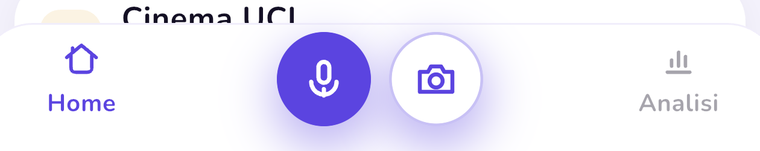
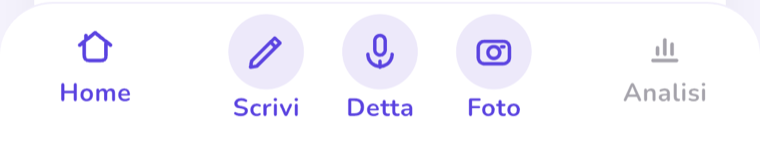
App Store al posto della beta, screenshot della 1.1.1, niente trattini lunghi
- «Prova la beta» e «Chiedi l'invito» diventano «Scarica su App Store»;
  la sezione beta dell'assistenza diventa «Scaricare e aggiornare»,
  con le istruzioni per segnalare un problema da «Scrivi all'assistenza».
- Sei screenshot rifatti dalla 1.1.1 (barra con Scrivi · Detta · Foto,
  icone delle categorie, credito, risparmi, ricorrenti, dettatura);
  il mock della home mostra icone e profilo come nell'app.
- Via il trattino lungo da tutte le pagine; «cosa e quanto» al posto
  di «dove e quanto»; il microfono si accende da «Detta».

diff --git a/index.html b/index.html
@@ -11,7 +11,7 @@
 /* Baloo 2 e Nunito serviti dal nostro dominio: nessuna richiesta a Google,
    quindi nessun indirizzo IP dei visitatori verso terzi e nessun banner da
    mettere. Sono gli stessi file variabili impacchettati nell'app
-   (assets/fonts/), licenza SIL OFL 1.1 — copia in fonts/. */
+   (assets/fonts/), licenza SIL OFL 1.1, copia in fonts/. */
 @font-face {
   font-family: 'Baloo 2';
   src: url('fonts/Baloo2-latin.woff2') format('woff2');
@@ -28,7 +28,7 @@
 }
 /* FONTS-LOCAL-END */
 /* ─────────────────────────────────────────────────────────────
-   Token dell'app (lib/design/tokens.dart) — unica fonte di verità
+   Token dell'app (lib/design/tokens.dart): unica fonte di verità
    per i colori. Il mock del telefono resta chiaro in entrambi i
    temi: è una schermata dell'app, non un elemento di pagina.
    ───────────────────────────────────────────────────────────── */
@@ -285,11 +285,11 @@ footer ul { display: flex; gap: 22px; flex-wrap: wrap; }
     <div>
       <span class="pill">Spese di casa</span>
       <h1>Una spesa si annota<br>in due secondi.</h1>
-      <p class="lede">Lo dici a voce — «Coop venti euro» — o fotografi lo scontrino. Nuvo propone importo, categoria e data; tu confermi con un tocco. Nessun modulo da compilare.</p>
+      <p class="lede">Lo dici a voce («Coop venti euro»), lo scrivi o fotografi lo scontrino. Nuvo propone importo, categoria e data; tu confermi con un tocco. Nessun modulo da compilare.</p>
       <div class="cta-row">
-        <a class="btn btn-primary" href="#beta">
-          <svg width="19" height="19" viewBox="0 0 24 24" fill="none" stroke="currentColor" stroke-width="2.1" stroke-linecap="round" stroke-linejoin="round" aria-hidden="true"><path d="M12 4v11"></path><path d="M7.5 11l4.5 4.5L16.5 11"></path><path d="M5 19.5h14"></path></svg>
-          Prova la beta
+        <a class="btn btn-primary" href="https://apps.apple.com/it/app/id6805154051" rel="noopener">
+          <svg width="19" height="19" viewBox="0 0 24 24" aria-hidden="true" fill="currentColor"><path d="M16.4 12.7c0-2.5 2-3.7 2.1-3.8-1.2-1.7-3-1.9-3.6-2-1.5-.2-3 .9-3.8.9-.8 0-2-.9-3.3-.8-1.7 0-3.3 1-4.1 2.5-1.8 3.1-.5 7.6 1.3 10.1.9 1.2 1.9 2.6 3.2 2.5 1.3-.1 1.8-.8 3.3-.8s2 .8 3.3.8c1.4 0 2.3-1.2 3.1-2.5 1-1.4 1.4-2.8 1.4-2.9 0 0-2.8-1.1-2.9-4zM14 5.3c.7-.8 1.2-2 1-3.1-1 0-2.2.7-2.9 1.5-.6.7-1.2 1.9-1 3 1.1.1 2.2-.6 2.9-1.4z"/></svg>
+          Scarica su App Store
         </a>
         <a class="btn btn-ghost" href="#domande">Come funziona</a>
       </div>
@@ -305,10 +305,10 @@ footer ul { display: flex; gap: 22px; flex-wrap: wrap; }
       <div class="phone" role="img" aria-label="La schermata principale di Nuvo: credito del mese 680 euro su 1.200, budget Spesa e Casa, e le ultime due spese registrate.">
         <div class="phone-top">
           <div>
-            <div style="font:600 11.5px Nunito,sans-serif;color:var(--p-ink-50)">Buonasera, Marco</div>
-            <div style="font:800 22px 'Baloo 2',Nunito,sans-serif">Agosto</div>
+            <div style="font:600 11.5px Nunito,sans-serif;color:var(--p-ink-50)">Buonasera, Marta</div>
+            <div style="font:800 22px 'Baloo 2',Nunito,sans-serif">Ottobre</div>
           </div>
-          <div class="phone-avatar">M</div>
+          <div class="phone-avatar"><svg width="16" height="16" viewBox="0 0 24 24" aria-hidden="true" fill="none" stroke="currentColor" stroke-width="2" stroke-linecap="round"><circle cx="12" cy="8.3" r="3.9"/><path d="M4.8 20.5q0-5.9 7.2-5.9t7.2 5.9"/></svg></div>
         </div>
         <div class="phone-card ring-row">
           <div class="ring">
@@ -340,13 +340,13 @@ footer ul { display: flex; gap: 22px; flex-wrap: wrap; }
         </div>
         <div class="budget-row">
           <div class="budget-card">
-            <div class="chip" style="background:#E4F1E7;color:#1E6B47">SP</div>
+            <div class="chip" style="background:#E4F1E7;color:#1E6B47"><svg width="15" height="15" viewBox="0 0 24 24" aria-hidden="true" fill="currentColor"><path d="M7 18a2 2 0 1 0 0 4 2 2 0 0 0 0-4zm10 0a2 2 0 1 0 0 4 2 2 0 0 0 0-4zM3 3h2.4l.9 2H21l-2.6 7.6a2 2 0 0 1-1.9 1.4H8.3l-.9 1.6a.5.5 0 0 0 .4.7H19v2H7.5a2.5 2.5 0 0 1-2.2-3.7l1.2-2.2L3 5V3z"/></svg></div>
             <div style="margin-top:7px;font:800 11.5px Nunito,sans-serif">Spesa</div>
             <div style="font:600 10px Nunito,sans-serif;color:var(--p-ink-50)">62,00 € rimasti</div>
             <div class="track"><i style="width:79%;background:#1E6B47"></i></div>
           </div>
           <div class="budget-card">
-            <div class="chip" style="background:#F5E8D1;color:#8A550F">CA</div>
+            <div class="chip" style="background:#F5E8D1;color:#8A550F"><svg width="15" height="15" viewBox="0 0 24 24" aria-hidden="true" fill="currentColor"><path d="M12 3l9 8h-2.5v9h-5v-6h-3v6h-5v-9H3z"/></svg></div>
             <div style="margin-top:7px;font:800 11.5px Nunito,sans-serif">Casa</div>
             <div style="font:600 10px Nunito,sans-serif;color:var(--p-ink-50)">282,00 € rimasti</div>
             <div class="track"><i style="width:30%;background:#8A550F"></i></div>
@@ -354,7 +354,7 @@ footer ul { display: flex; gap: 22px; flex-wrap: wrap; }
         </div>
         <div class="list">
           <div class="list-row">
-            <div class="chip" style="width:28px;height:28px;border-radius:10px;background:#E4F1E7;color:#1E6B47">SP</div>
+            <div class="chip" style="width:28px;height:28px;border-radius:10px;background:#E4F1E7;color:#1E6B47"><svg width="15" height="15" viewBox="0 0 24 24" aria-hidden="true" fill="currentColor"><path d="M7 18a2 2 0 1 0 0 4 2 2 0 0 0 0-4zm10 0a2 2 0 1 0 0 4 2 2 0 0 0 0-4zM3 3h2.4l.9 2H21l-2.6 7.6a2 2 0 0 1-1.9 1.4H8.3l-.9 1.6a.5.5 0 0 0 .4.7H19v2H7.5a2.5 2.5 0 0 1-2.2-3.7l1.2-2.2L3 5V3z"/></svg></div>
             <div style="flex:1">
               <div style="font:700 11.5px Nunito,sans-serif">Coop</div>
               <div style="font:600 9.5px Nunito,sans-serif;color:var(--p-ink-45)">Spesa · voce · ora</div>
@@ -362,7 +362,7 @@ footer ul { display: flex; gap: 22px; flex-wrap: wrap; }
             <div style="font:800 12.5px 'Baloo 2',Nunito,sans-serif">20,00 €</div>
           </div>
           <div class="list-row">
-            <div class="chip" style="width:28px;height:28px;border-radius:10px;background:#EDE9FA;color:#5B44E0">AB</div>
+            <div class="chip" style="width:28px;height:28px;border-radius:10px;background:#EDE9FA;color:#5B44E0"><svg width="15" height="15" viewBox="0 0 24 24" aria-hidden="true" fill="none" stroke="currentColor" stroke-width="2.4" stroke-linecap="round" stroke-linejoin="round"><path d="M20 12a8 8 0 0 1-14.3 4.9M4 12A8 8 0 0 1 18.3 7.1M18 3v4h-4M6 21v-4h4"/></svg></div>
             <div style="flex:1">
               <div style="font:700 11.5px Nunito,sans-serif">Amazon Prime</div>
               <div style="font:600 9.5px Nunito,sans-serif;color:var(--p-ink-45)">Abbonamenti · ogni mese</div>
@@ -396,7 +396,7 @@ footer ul { display: flex; gap: 22px; flex-wrap: wrap; }
           </div>
           <h3>A voce</h3>
         </div>
-        <p class="body-sm" style="margin-top:14px">Dici dove e quanto, anche in una frase normale. Nuvo riconosce i numeri scritti e detti, le date («ieri», «sabato scorso») e le ricorrenti («9,90 al mese»). Una spesa per frase: quando l'hai confermata, ne detti un'altra.</p>
+        <p class="body-sm" style="margin-top:14px">Dici cosa e quanto, anche in una frase normale. Nuvo riconosce i numeri scritti e detti, le date («ieri», «sabato scorso») e le ricorrenti («9,90 al mese»). Una spesa per frase: quando l'hai confermata, ne detti un'altra.</p>
         <div style="margin-top:18px;display:flex;flex-direction:column;gap:8px">
           <div class="say">«Coop ventidue euro»</div>
           <div class="say">«Farmacia 18 e 50»</div>
@@ -429,7 +429,7 @@ footer ul { display: flex; gap: 22px; flex-wrap: wrap; }
           </div>
           <h3>A mano</h3>
         </div>
-        <p class="body-sm" style="margin-top:14px">Il ripiego che c'è sempre: importo, cosa, categoria e data, anche retrodatata. È la stessa schermata di conferma degli altri due modi — quindi non c'è niente di nuovo da imparare.</p>
+        <p class="body-sm" style="margin-top:14px">Il ripiego che c'è sempre: importo, cosa, categoria e data, anche retrodatata. È la stessa schermata di conferma degli altri due modi, quindi non c'è niente di nuovo da imparare.</p>
         <div style="margin-top:18px;display:flex;flex-direction:column;gap:8px">
           <div class="say">Valuta diversa dalla tua</div>
           <div class="say">Data di ieri o del mese scorso</div>
@@ -438,7 +438,7 @@ footer ul { display: flex; gap: 22px; flex-wrap: wrap; }
       </div>
     </div>
     <div class="steps">
-      <div class="step"><div class="num">1</div><p class="body-sm"><b>Dici, inquadri o scrivi.</b> Un gesto, dalla schermata principale — o tenendo premuta l'icona dell'app.</p></div>
+      <div class="step"><div class="num">1</div><p class="body-sm"><b>Dici, inquadri o scrivi.</b> Un gesto dalla barra in basso, o tenendo premuta l'icona dell'app.</p></div>
       <div class="step"><div class="num">2</div><p class="body-sm"><b>Nuvo propone.</b> Importo, categoria, data e se è una spesa fissa. Quello di cui non è sicura te lo segnala.</p></div>
       <div class="step"><div class="num">3</div><p class="body-sm"><b>Confermi tu.</b> L'ultima parola è sempre tua: niente si salva da solo, e ogni correzione le insegna qualcosa.</p></div>
     </div>
@@ -453,7 +453,7 @@ footer ul { display: flex; gap: 22px; flex-wrap: wrap; }
       <div class="feature">
         <span class="tag">Credito</span>
         <h3>Il mese in un anello</h3>
-        <p>Dici quanto ti entra ogni mese — lo stipendio, un rimborso, un extra — e l'anello mostra quanto resta. La nuvoletta cambia umore quando il credito si assottiglia.</p>
+        <p>Dici quanto ti entra ogni mese (lo stipendio, un rimborso, un extra) e l'anello mostra quanto resta. La nuvoletta cambia umore quando il credito si assottiglia.</p>
       </div>
       <div class="feature">
         <span class="tag">Budget</span>
@@ -514,7 +514,7 @@ footer ul { display: flex; gap: 22px; flex-wrap: wrap; }
     <div>
       <p class="eyebrow green">Privacy</p>
       <h2>I tuoi soldi restano<br>affare tuo.</h2>
-      <p class="lede" style="margin-top:16px">Nuvo non usa intelligenza artificiale, in nessuna funzione: la voce la trascrive il riconoscimento vocale del telefono — e quando il modello della tua lingua è installato, l'audio non esce dal dispositivo — a dare senso alle parole ci pensano regole scritte a mano, e gli scontrini li legge il lettore di testo di sistema. Le spese vivono in un database sul tuo telefono: non c'è un server dove finiscono.</p>
+      <p class="lede" style="margin-top:16px">Nuvo non usa intelligenza artificiale, in nessuna funzione: la voce la trascrive il riconoscimento vocale del telefono (e quando il modello della tua lingua è installato, l'audio non esce dal dispositivo), a dare senso alle parole ci pensano regole scritte a mano, e gli scontrini li legge il lettore di testo di sistema. Le spese vivono in un database sul tuo telefono: non c'è un server dove finiscono.</p>
       <div class="quote">
         <svg width="52" height="47" viewBox="0 0 58 52" style="flex:none" aria-hidden="true">
           <path d="M14 40c-6 0-10-4-10-9s4-9 9-9c1-7 7-12 14-12s13 5 14 12c5 0 12 3 12 10s-6 8-11 8H14z" fill="var(--cloud-body)" stroke="var(--cloud-line)" stroke-width="2.6" stroke-linejoin="round"></path>
@@ -548,7 +548,7 @@ footer ul { display: flex; gap: 22px; flex-wrap: wrap; }
     <div class="tip-card">
       <svg width="60" height="60" viewBox="0 0 24 24" fill="none" stroke="currentColor" stroke-width="1.6" stroke-linecap="round" stroke-linejoin="round" style="margin:0 auto" aria-hidden="true"><path d="M4.5 8.5h11.5v5.5a4.5 4.5 0 0 1-4.5 4.5H9a4.5 4.5 0 0 1-4.5-4.5V8.5z"></path><path d="M16 9.8h1.9a2.3 2.3 0 0 1 0 4.6H16"></path><path d="M7.2 5.6c.7-.8 1.4-.8 2.1 0M12 5.2c.7-.8 1.4-.8 2.1 0"></path><path d="M5 21h11"></path></svg>
       <h3 style="margin-top:12px">Quanto ti senti</h3>
-      <p class="note">Una volta, non ogni mese. Dentro l'app, quando ti va — e non sblocca nulla, perché non c'è niente da sbloccare.</p>
+      <p class="note">Una volta, non ogni mese. Dentro l'app, quando ti va. Non sblocca nulla, perché non c'è niente da sbloccare.</p>
       <div class="tip-cta">Offrimi un caffè</div>
     </div>
   </div>
@@ -564,7 +564,7 @@ footer ul { display: flex; gap: 22px; flex-wrap: wrap; }
       </div>
       <div>
         <h3>Devo parlare in un modo preciso?</h3>
-        <p>Basta dove (o cosa) e quanto, anche dentro una frase normale: «oggi dal dentista ho speso 350 euro». Una spesa per frase, però: due spese insieme è ambiguo anche per una persona.</p>
+        <p>Basta cosa e quanto, anche dentro una frase normale: «oggi dal dentista ho speso 350 euro». Una spesa per frase, però: due spese insieme è ambiguo anche per una persona.</p>
       </div>
       <div>
         <h3>Posso decidere io i tetti di spesa?</h3>
@@ -580,34 +580,34 @@ footer ul { display: flex; gap: 22px; flex-wrap: wrap; }
       </div>
       <div>
         <h3>E se cambio telefono?</h3>
-        <p>Salvi un backup dalle impostazioni — spese, foto e impostazioni in un file — e lo ripristini sul telefono nuovo. Senza account, il passaggio lo fai tu: nessuno tiene una copia al posto tuo.</p>
+        <p>Salvi un backup dalle impostazioni (spese, foto e impostazioni in un file) e lo ripristini sul telefono nuovo. Senza account, il passaggio lo fai tu: nessuno tiene una copia al posto tuo.</p>
       </div>
       <div>
         <h3>La dettatura ascolta sempre?</h3>
-        <p>No: il microfono si accende quando tocchi la nuvoletta e si spegne appena hai finito. Il permesso lo chiedo la prima volta che detti davvero, non all'avvio.</p>
+        <p>No: il microfono si accende quando tocchi «Detta» e si spegne appena hai finito. Il permesso lo chiedo la prima volta che detti davvero, non all'avvio.</p>
       </div>
       <div>
         <h3>Qualcosa non funziona?</h3>
-        <p>La pagina di <a href="supporto.html">assistenza</a> raccoglie le soluzioni ai problemi più comuni — permessi, dettatura, scontrini letti male, backup — e l'indirizzo a cui scrivermi.</p>
+        <p>La pagina di <a href="supporto.html">assistenza</a> raccoglie le soluzioni ai problemi più comuni (permessi, dettatura, scontrini letti male, backup) e l'indirizzo a cui scrivermi.</p>
       </div>
       <div>
         <h3>Su quali telefoni funziona?</h3>
-        <p>iPhone e Android, dalla stessa base di codice. In questo momento è in beta chiusa su TestFlight: l'arrivo sugli store è il passo dopo.</p>
+        <p>Su iPhone, dall'<a href="https://apps.apple.com/it/app/id6805154051" rel="noopener">App Store</a>. La versione Android nasce dalla stessa base di codice ed è in lavorazione: arriverà su Google Play.</p>
       </div>
     </div>
   </div>
 </section>
 
-<section class="closing" id="beta">
+<section class="closing" id="scarica">
   <div class="wrap">
     <div>
       <p class="display" style="font-size:clamp(24px,3.4vw,30px)">Prova a dire «Coop venti euro».</p>
-      <p class="meta" style="margin-top:6px">Nuvo è in beta su TestFlight. Scrivimi e ti mando l'invito.</p>
+      <p class="meta" style="margin-top:6px">Nuvo è gratis sull'App Store. Scaricala e dimmi come va.</p>
     </div>
     <div style="display:flex;gap:12px;flex-wrap:wrap">
-      <a class="btn btn-primary" href="mailto:nuvo.app.it@gmail.com?subject=Beta%20di%20Nuvo">
-        <svg width="19" height="19" viewBox="0 0 24 24" fill="none" stroke="currentColor" stroke-width="2.1" stroke-linecap="round" stroke-linejoin="round" aria-hidden="true"><rect x="3" y="5" width="18" height="14" rx="3"></rect><path d="M4 7l8 6 8-6"></path></svg>
-        Chiedi l'invito
+      <a class="btn btn-primary" href="https://apps.apple.com/it/app/id6805154051" rel="noopener">
+        <svg width="19" height="19" viewBox="0 0 24 24" aria-hidden="true" fill="currentColor"><path d="M16.4 12.7c0-2.5 2-3.7 2.1-3.8-1.2-1.7-3-1.9-3.6-2-1.5-.2-3 .9-3.8.9-.8 0-2-.9-3.3-.8-1.7 0-3.3 1-4.1 2.5-1.8 3.1-.5 7.6 1.3 10.1.9 1.2 1.9 2.6 3.2 2.5 1.3-.1 1.8-.8 3.3-.8s2 .8 3.3.8c1.4 0 2.3-1.2 3.1-2.5 1-1.4 1.4-2.8 1.4-2.9 0 0-2.8-1.1-2.9-4zM14 5.3c.7-.8 1.2-2 1-3.1-1 0-2.2.7-2.9 1.5-.6.7-1.2 1.9-1 3 1.1.1 2.2-.6 2.9-1.4z"/></svg>
+        Scarica su App Store
       </a>
       <a class="btn btn-ghost" href="supporto.html">Assistenza</a>
     </div>

diff --git a/supporto.html b/supporto.html
@@ -11,7 +11,7 @@
 /* Baloo 2 e Nunito serviti dal nostro dominio: nessuna richiesta a Google,
    quindi nessun indirizzo IP dei visitatori verso terzi e nessun banner da
    mettere. Sono gli stessi file variabili impacchettati nell'app
-   (assets/fonts/), licenza SIL OFL 1.1 — copia in fonts/. */
+   (assets/fonts/), licenza SIL OFL 1.1, copia in fonts/. */
 @font-face {
   font-family: 'Baloo 2';
   src: url('fonts/Baloo2-latin.woff2') format('woff2');
@@ -223,8 +223,8 @@ figcaption { margin-top: 8px; font: 600 12.5px/1.45 Nunito, sans-serif; color: v
         <div class="txt"><b>Promemoria e sicurezza</b><span>Promemoria che non arrivano, blocco con Face ID o impronta</span></div>
         <svg width="22" height="22" viewBox="0 0 24 24" fill="none" stroke="var(--violet)" stroke-width="2.4" stroke-linecap="round" stroke-linejoin="round" aria-hidden="true"><path d="M9 5l7 7-7 7"></path></svg>
       </a>
-      <a class="card" href="#beta">
-        <div class="txt"><b>Beta su TestFlight</b><span>Come provare Nuvo prima che arrivi sull'App Store</span></div>
+      <a class="card" href="#scarica">
+        <div class="txt"><b>Scaricare e aggiornare</b><span>Dove si trova Nuvo e come arrivano le nuove versioni</span></div>
         <svg width="22" height="22" viewBox="0 0 24 24" fill="none" stroke="var(--violet)" stroke-width="2.4" stroke-linecap="round" stroke-linejoin="round" aria-hidden="true"><path d="M9 5l7 7-7 7"></path></svg>
       </a>
     </div>
@@ -239,7 +239,7 @@ figcaption { margin-top: 8px; font: 600 12.5px/1.45 Nunito, sans-serif; color: v
     <h3>Come detto una spesa</h3>
     <p>Nella schermata principale, in basso al centro, c'è il pulsante col microfono <span class="btn-inline" aria-hidden="true"><svg width="13" height="13" viewBox="0 0 24 24" fill="none" stroke="#fff" stroke-width="2.4" stroke-linecap="round"><rect x="9" y="2.5" width="6" height="11" rx="3"></rect><path d="M5.5 11a6.5 6.5 0 0 0 13 0"></path><path d="M12 17.5V21"></path></svg></span>: toccalo e parla. <span class="nuvo">Nuvo</span> ascolta, si ferma da sé dopo un paio di secondi di silenzio e ti mostra cosa ha capito.</p>
     <figure>
-      <img src="img/barra.png" alt="La barra in basso della schermata principale, con il pulsante del microfono al centro e quello della fotocamera accanto">
+      <img src="img/barra.png" alt="La barra in basso della schermata principale, con i tre pulsanti Scrivi, Detta e Foto">
       <figcaption>La barra in basso: microfono per dettare, fotocamera per lo scontrino.</figcaption>
     </figure>
     <p>Basta dire <strong>cosa</strong> e <strong>quanto</strong>: «Coop 22 euro», «benzina 40 euro», «dentista 350 euro». Funziona anche dentro una frase intera, come «oggi ho fatto la spesa alla Coop e ho speso 22 euro».</p>
@@ -268,7 +268,7 @@ figcaption { margin-top: 8px; font: 600 12.5px/1.45 Nunito, sans-serif; color: v
 
     <h3>Ha preso il numero sbagliato</h3>
     <p>Su uno scontrino ci sono molti numeri e uno solo è il totale: <span class="nuvo">Nuvo</span> scarta di proposito subtotali, IVA, contante e resto, ma non è infallibile. L'importo lo puoi correggere nella schermata di conferma, prima di salvare.</p>
-    <p>Per aiutarla: inquadra il documento intero, appoggiato su una superficie piatta e con luce uniforme, evitando ombre e pieghe sulla riga del totale. Se sbaglia comunque, mandaci la foto — ci serve per migliorare la lettura.</p>
+    <p>Per aiutarla: inquadra il documento intero, appoggiato su una superficie piatta e con luce uniforme, evitando ombre e pieghe sulla riga del totale. Se sbaglia comunque, mandaci la foto: ci serve per migliorare la lettura.</p>
 
     <h3>Funziona anche con bollette e fatture?</h3>
     <p>Sì. In una bolletta il totale non è in fondo come su uno scontrino, ma dentro un riquadro in mezzo alla pagina, in mezzo a consumi e imposte. <span class="nuvo">Nuvo</span> riconosce di che tipo di documento si tratta e cerca l'importo dove sta davvero.</p>
@@ -276,9 +276,9 @@ figcaption { margin-top: 8px; font: 600 12.5px/1.45 Nunito, sans-serif; color: v
     <h2 id="soldi">Entrate, budget e risparmi</h2>
 
     <h3>Che cos'è il credito del mese, e come si imposta</h3>
-    <p>Il credito è quanto hai a disposizione in un mese, e non è un numero che scrivi una volta: è la <strong>somma delle tue entrate</strong> di quel mese. Lo stipendio il 27, un rimborso il 10, un affitto incassato il 5 — le metti una per una e <span class="nuvo">Nuvo</span> le somma.</p>
+    <p>Il credito è quanto hai a disposizione in un mese, e non è un numero che scrivi una volta: è la <strong>somma delle tue entrate</strong> di quel mese. Lo stipendio il 27, un rimborso il 10, un affitto incassato il 5, le metti una per una e <span class="nuvo">Nuvo</span> le somma.</p>
     <p>Si apre da due punti: la card <strong>Credito del mese</strong> in cima alla schermata principale, oppure <strong>Il tuo credito</strong> in Impostazioni. Dentro trovi il totale e l'elenco delle entrate: tocca <strong>+ Entrata</strong> per aggiungerne una, o una riga per modificarla.</p>
-    <p>Ogni entrata ha un nome, un importo, il giorno in cui arriva e un interruttore: se è <strong>ricorrente</strong> — come uno stipendio — torna da sola ogni mese, e non devi reinserirla. Se è una tantum, vale solo per il mese in cui l'hai messa.</p>
+    <p>Ogni entrata ha un nome, un importo, il giorno in cui arriva e un interruttore: se è <strong>ricorrente</strong>, come uno stipendio, torna da sola ogni mese, e non devi reinserirla. Se è una tantum, vale solo per il mese in cui l'hai messa.</p>
     <figure>
       <img src="img/credito.png" alt="La scheda del credito: il totale del mese e sotto l'elenco delle entrate, stipendio e affitto incassato" loading="lazy">
       <figcaption>Il totale in alto è la somma delle entrate qui sotto; con <strong>+ Entrata</strong> se ne aggiunge una.</figcaption>
@@ -291,7 +291,7 @@ figcaption { margin-top: 8px; font: 600 12.5px/1.45 Nunito, sans-serif; color: v
       <img src="img/risparmi.png" alt="La schermata dei risparmi: il totale messo da parte, la nuvoletta con la monetina e l'elenco dei mesi chiusi" loading="lazy">
       <figcaption>Ogni mese chiuso compare nell'elenco: in verde quelli in positivo, in rosso quelli in cui hai sforato.</figcaption>
     </figure>
-    <p><strong>Da qui non si preleva.</strong> Non è un conto e non c'è niente da spostare: è un totale calcolato dai tuoi mesi, che serve a vedere la strada fatta. Per la stessa ragione il mese in corso non ci entra finché non è chiuso — lo trovi indicato a parte, in fondo alla schermata.</p>
+    <p><strong>Da qui non si preleva.</strong> Non è un conto e non c'è niente da spostare: è un totale calcolato dai tuoi mesi, che serve a vedere la strada fatta. Per la stessa ragione il mese in corso non ci entra finché non è chiuso: lo trovi indicato a parte, in fondo alla schermata.</p>
 
     <h3>Come metto un tetto di spesa a una categoria</h3>
     <p>Nella schermata principale, accanto a <strong>Budget</strong>, tocca <strong>Vedi tutti</strong>: si apre l'elenco delle categorie con quanto hai speso e quanto avevi previsto. Tocca una categoria per scriverne il tetto mensile, o usa il riquadro tratteggiato per creare una categoria nuova con il suo tetto, nome e colore.</p>
@@ -307,7 +307,7 @@ figcaption { margin-top: 8px; font: 600 12.5px/1.45 Nunito, sans-serif; color: v
     <p>Perché arrivi servono i promemoria attivi: vedi <a href="#avvisi">Promemoria e sicurezza</a>.</p>
 
     <h3>Le spese fisse si registrano da sole?</h3>
-    <p>Sì, se le trasformi in ricorrenti. Puoi dettarle — «abbonamento palestra 39 euro al mese» crea insieme la spesa di oggi e la regola per i mesi prossimi — oppure crearle a mano da <strong>Ricorrenti</strong>, nella schermata principale, col pulsante <strong>+ Ricorrente</strong>.</p>
+    <p>Sì, se le trasformi in ricorrenti. Puoi dettarle («abbonamento palestra 39 euro al mese» crea insieme la spesa di oggi e la regola per i mesi prossimi) oppure crearle a mano da <strong>Ricorrenti</strong>, nella schermata principale, col pulsante <strong>+ Ricorrente</strong>.</p>
     
     <figure>
       <img src="img/ricorrenti.png" alt="L'elenco delle spese ricorrenti, ognuna con importo, giorno del mese e un interruttore" loading="lazy">
@@ -318,12 +318,12 @@ figcaption { margin-top: 8px; font: 600 12.5px/1.45 Nunito, sans-serif; color: v
     <h2 id="dati">Dati e backup</h2>
 
     <h3>Sto cambiando telefono: come porto le spese sul nuovo?</h3>
-    <p>In Impostazioni, sotto <strong>Backup</strong>, tocca <strong>Salva un backup</strong>: <span class="nuvo">Nuvo</span> prepara un file con tutte le spese, le foto e le impostazioni e ti chiede dove mandarlo — AirDrop, iCloud, email, quello che preferisci.</p>
+    <p>In Impostazioni, sotto <strong>Backup</strong>, tocca <strong>Salva un backup</strong>: <span class="nuvo">Nuvo</span> prepara un file con tutte le spese, le foto e le impostazioni e ti chiede dove mandarlo: AirDrop, iCloud, email, quello che preferisci.</p>
     <p>Sul telefono nuovo installa <span class="nuvo">Nuvo</span>, apri le Impostazioni e scegli <strong>Ripristina da backup</strong>, indicando quel file. Attenzione: il ripristino <strong>sostituisce</strong> i dati presenti, quindi fallo prima di iniziare a registrare spese sul telefono nuovo.</p>
 
     <h3>Le spese si sincronizzano fra due telefoni?</h3>
     <p>No, e non c'è un account con cui farlo. Le spese vivono sul telefono dove le hai registrate e si spostano solo con il file di backup.</p>
-    <p>Il rovescio della medaglia: se perdi il telefono e non hai un backup, quelle spese non si recuperano — nemmeno noi possiamo, perché non ne abbiamo mai avuto una copia. È lo stesso motivo per cui nessuno può leggerle.</p>
+    <p>Il rovescio della medaglia: se perdi il telefono e non hai un backup, quelle spese non si recuperano: nemmeno noi possiamo, perché non ne abbiamo mai avuto una copia. È lo stesso motivo per cui nessuno può leggerle.</p>
 
     <h3>Posso aprire le mie spese in un foglio di calcolo?</h3>
     <p>Sì: Impostazioni → <strong>Esporta le spese (CSV)</strong>. Ottieni un file che Excel, Numbers o Fogli Google aprono direttamente, con una riga per spesa.</p>
@@ -343,24 +343,26 @@ figcaption { margin-top: 8px; font: 600 12.5px/1.45 Nunito, sans-serif; color: v
     <p>In Impostazioni c'è <strong>Proteggi con Face ID o impronta</strong>: da quel momento <span class="nuvo">Nuvo</span> chiede il riconoscimento a ogni apertura.</p>
     <p>Usa il blocco già configurato nel telefono, quindi se non hai impostato Face ID, Touch ID o l'impronta l'interruttore non si accende e l'app te lo dice. Attivalo nelle impostazioni del telefono e riprova. Il volto o l'impronta non passano per <span class="nuvo">Nuvo</span>: il confronto lo fa il sistema, l'app riceve solo un sì o un no.</p>
 
-    <h2 id="beta">Beta su TestFlight</h2>
+    <h2 id="scarica">Scaricare e aggiornare</h2>
 
-    <h3>Come entro nella beta</h3>
-    <p><span class="nuvo">Nuvo</span> è in prova su TestFlight, l'app di Apple con cui si provano le applicazioni prima che arrivino sull'App Store. Scrivici e ti mandiamo l'invito: ti serve solo l'indirizzo email con cui usi l'iPhone.</p>
+    <h3>Dove trovo Nuvo</h3>
+    <p><span class="nuvo">Nuvo</span> è gratis sull'<a href="https://apps.apple.com/it/app/id6805154051" rel="noopener">App Store</a>, per iPhone. La versione Android è in lavorazione e arriverà su Google Play.</p>
 
-    <h3>Come segnalo un problema durante la beta</h3>
-    <p>Il modo più rapido è da dentro TestFlight: fai uno screenshot o scuoti il telefono, poi tocca <strong>Invia feedback</strong>. Insieme al tuo messaggio ci arrivano l'immagine e i dettagli del dispositivo, che è metà del lavoro di capire cosa è andato storto.</p>
-    <p>Va benissimo anche una email, se preferisci.</p>
+    <h3>Come arrivano gli aggiornamenti</h3>
+    <p>Dall'App Store, come per ogni app: con gli aggiornamenti automatici attivi la nuova versione si installa da sola, altrimenti la trovi nella scheda Aggiornamenti. I tuoi dati restano dove sono: un aggiornamento non li tocca mai.</p>
+
+    <h3>Come segnalo un problema</h3>
+    <p>Dal Profilo, tocca <strong>Scrivi all'assistenza</strong>: si apre la Posta con una mail già compilata, che in fondo riporta modello del telefono, versione del sistema e versione di <span class="nuvo">Nuvo</span>. Aggiungi cosa è successo, se puoi uno screenshot, e invia. Va benissimo anche una email scritta a mano, se preferisci.</p>
 
     <div class="contact">
       <h2>Scrivici</h2>
-      <p>Ci dispiace che le domande frequenti non abbiano risposto alla tua. Mandaci un messaggio: leggiamo tutto e rispondiamo il prima possibile — di solito lo stesso giorno, al massimo entro due giorni lavorativi.</p>
+      <p>Ci dispiace che le domande frequenti non abbiano risposto alla tua. Mandaci un messaggio: leggiamo tutto e rispondiamo il prima possibile, di solito lo stesso giorno e al massimo entro due giorni lavorativi.</p>
       <a class="mail" href="mailto:nuvo.app.it@gmail.com">nuvo.app.it@gmail.com</a>
-      <p class="small">Per un problema, se puoi aggiungi telefono e versione del sistema, la versione di <span class="nuvo">Nuvo</span> (Impostazioni → Licenze open source), la frase esatta che hai dettato o la foto del documento. Per una proposta o una nuova funzione, raccontaci solo cosa vorresti fare.</p>
+      <p class="small">Per un problema, se puoi aggiungi telefono e versione del sistema, la versione di <span class="nuvo">Nuvo</span> (se scrivi da «Scrivi all'assistenza» nel Profilo ci sono già), la frase esatta che hai dettato o la foto del documento. Per una proposta o una nuova funzione, raccontaci solo cosa vorresti fare.</p>
     </div>
 
     <h2>Privacy</h2>
-    <p>Come vengono trattati i dati — cioè: non escono dal telefono — sta scritto nell'<a href="privacy.html">informativa privacy</a>.</p>
+    <p>Come vengono trattati i dati (cioè: non escono dal telefono) sta scritto nell'<a href="privacy.html">informativa privacy</a>.</p>
 
   </div>
 </main>

diff --git a/privacy.html b/privacy.html
@@ -11,7 +11,7 @@
 /* Baloo 2 e Nunito serviti dal nostro dominio: nessuna richiesta a Google,
    quindi nessun indirizzo IP dei visitatori verso terzi e nessun banner da
    mettere. Sono gli stessi file variabili impacchettati nell'app
-   (assets/fonts/), licenza SIL OFL 1.1 — copia in fonts/. */
+   (assets/fonts/), licenza SIL OFL 1.1, copia in fonts/. */
 @font-face {
   font-family: 'Baloo 2';
   src: url('fonts/Baloo2-latin.woff2') format('woff2');
@@ -149,7 +149,7 @@ footer ul { display: flex; gap: 22px; list-style: none; padding: 0; margin: 0; f
     <ul>
       <li>le <strong>spese</strong>: importo, valuta, esercente o descrizione, categoria, data, note di ricorrenza;</li>
       <li>le <strong>foto</strong> di scontrini, bollette e fatture che scegli di allegare a una spesa;</li>
-      <li>le tue <strong>entrate</strong>: nome, importo, giorno del mese e se si ripetono — è da queste che nasce il credito del mese;</li>
+      <li>le tue <strong>entrate</strong>: nome, importo, giorno del mese e se si ripetono: è da queste che nasce il credito del mese;</li>
       <li>le tue <strong>impostazioni</strong>: nome con cui l'app ti chiama, budget per categoria, lingua, valuta, formato dei numeri, promemoria attivi;</li>
       <li>ciò che l'app <strong>impara dalle tue correzioni</strong> (l'associazione fra un esercente e una categoria), che resta un dato locale come gli altri;</li>
       <li>una <strong>copia dei tassi di cambio</strong> già scaricati, per funzionare offline.</li>
@@ -187,7 +187,7 @@ footer ul { display: flex; gap: 22px; list-style: none; padding: 0; margin: 0; f
 
     <h2>5. Dettatura e lettura degli scontrini</h2>
     <p><strong>La voce.</strong> La trascrizione la fa il riconoscimento vocale del sistema operativo, e Nuvo chiede sempre la modalità <em>sul dispositivo</em>: quando il modello della tua lingua è installato sul telefono, l'audio non esce dal dispositivo. Se quel modello non è disponibile, il riconoscimento di sistema può ripiegare sull'elaborazione sui server di Apple o Google, secondo le impostazioni e le informative del produttore del telefono (<a href="https://www.apple.com/legal/privacy/" rel="noopener">Apple</a>, <a href="https://policies.google.com/privacy" rel="noopener">Google</a>). In quel caso Nuvo riceve solo il testo trascritto: la registrazione non viene conservata né dall'app né dal titolare. Se preferisci evitarlo del tutto, scarica il modello della tua lingua dalle impostazioni del telefono oppure usa la foto o l'inserimento a mano.</p>
-    <p><strong>Le foto.</strong> Il testo dei documenti viene letto dal riconoscimento testo di sistema — Vision su iPhone, ML Kit su Android — che lavora <strong>sul dispositivo</strong>, anche in aereo. Le immagini restano nell'area riservata all'app, legate alla spesa, e vengono eliminate quando elimini la spesa o l'app.</p>
+    <p><strong>Le foto.</strong> Il testo dei documenti viene letto dal riconoscimento testo di sistema (Vision su iPhone, ML Kit su Android), che lavora <strong>sul dispositivo</strong>, anche in aereo. Le immagini restano nell'area riservata all'app, legate alla spesa, e vengono eliminate quando elimini la spesa o l'app.</p>
     <p>A dare un senso alle parole (importo, esercente, categoria, data, ricorrenza) ci pensano regole scritte dentro l'app, che girano offline.</p>
 
     <h2>6. Le connessioni di rete</h2>
@@ -200,23 +200,23 @@ footer ul { display: flex; gap: 22px; list-style: none; padding: 0; margin: 0; f
     <h2>7. Mance e acquisti in-app</h2>
     <p>Nuvo è gratuita e non ha funzioni a pagamento. Dalle impostazioni puoi lasciare una <strong>mancia una tantum</strong>: il pagamento è gestito interamente da App Store o Google Play, che ti addebitano con i dati già presenti sul tuo account. Chi sviluppa l'app <strong>non vede</strong> né riceve numeri di carta, indirizzi o altri dati di pagamento: dagli store arrivano solo rendiconti aggregati delle vendite. Le mance sono acquisti consumabili: non sbloccano nulla e non si trasferiscono ad altri dispositivi.</p>
 
-    <h2>8. Backup, export e beta</h2>
+    <h2>8. Backup, export e versioni di prova</h2>
     <p><strong>Backup ed export.</strong> Dalle impostazioni puoi creare un file di backup (spese, foto e impostazioni) o esportare le spese in CSV. Il file esce dall'app solo dove lo mandi tu: se lo salvi su iCloud, Google Drive o lo mandi per email, da quel momento vale l'informativa del servizio che hai scelto. Il file non è cifrato: conservalo dove conservi i documenti che ti riguardano.</p>
-    <p><strong>Beta su TestFlight.</strong> Se provi Nuvo come tester, l'iscrizione e l'invio dei feedback passano da Apple: Apple tratta il tuo indirizzo email, gli screenshot e i commenti che invii, oltre ai dati diagnostici previsti dalle sue impostazioni, e li rende visibili allo sviluppatore. Vale l'<a href="https://www.apple.com/legal/privacy/data/it/testflight/" rel="noopener">informativa TestFlight di Apple</a>. Se mi scrivi un feedback via email, vale il punto seguente.</p>
+    <p><strong>Versioni di prova su TestFlight.</strong> Se in futuro provi una versione di Nuvo come tester, l'iscrizione e l'invio dei feedback passano da Apple: Apple tratta il tuo indirizzo email, gli screenshot e i commenti che invii, oltre ai dati diagnostici previsti dalle sue impostazioni, e li rende visibili allo sviluppatore. Vale l'<a href="https://www.apple.com/legal/privacy/data/it/testflight/" rel="noopener">informativa TestFlight di Apple</a>. Se mi scrivi un feedback via email, vale il punto seguente.</p>
 
     <h2>9. Se mi scrivi</h2>
     <p>Quando scrivi a <a href="mailto:nuvo.app.it@gmail.com">nuvo.app.it@gmail.com</a>, il titolare tratta l'indirizzo email e il contenuto del messaggio (compresi eventuali screenshot che allegi) al solo scopo di risponderti e correggere il problema segnalato. La base giuridica è l'interesse legittimo a fornire assistenza su un'app gratuita, ai sensi dell'art. 6.1.f del Regolamento (UE) 2016/679. I messaggi vengono conservati per il tempo necessario a gestire la richiesta e comunque non oltre 24 mesi; la casella è ospitata su Gmail (Google Ireland Ltd.), che agisce come fornitore del servizio di posta.</p>
     <p>Non uso i tuoi contatti per newsletter o comunicazioni commerciali.</p>
 
     <h2>10. I tuoi diritti</h2>
-    <p>Sui dati che stanno nel telefono i comandi li hai già in mano, senza dover chiedere niente a nessuno: puoi modificare o eliminare ogni singola spesa, esportare tutto in CSV o in un file di backup — è il diritto di portabilità, in pratica — e cancellare l'intero archivio disinstallando l'app. Nessuno conserva una copia dopo di te.</p>
-    <p>Per i dati del punto 9 (le email che mi mandi) puoi esercitare i diritti previsti dagli articoli 15-22 del GDPR — accesso, rettifica, cancellazione, limitazione, opposizione, portabilità — scrivendo allo stesso indirizzo. Hai inoltre diritto di proporre reclamo al <a href="https://www.garanteprivacy.it" rel="noopener">Garante per la protezione dei dati personali</a>.</p>
+    <p>Sui dati che stanno nel telefono i comandi li hai già in mano, senza dover chiedere niente a nessuno: puoi modificare o eliminare ogni singola spesa, esportare tutto in CSV o in un file di backup (è il diritto di portabilità, in pratica) e cancellare l'intero archivio disinstallando l'app. Nessuno conserva una copia dopo di te.</p>
+    <p>Per i dati del punto 9 (le email che mi mandi) puoi esercitare i diritti previsti dagli articoli 15-22 del GDPR (accesso, rettifica, cancellazione, limitazione, opposizione, portabilità) scrivendo allo stesso indirizzo. Hai inoltre diritto di proporre reclamo al <a href="https://www.garanteprivacy.it" rel="noopener">Garante per la protezione dei dati personali</a>.</p>
 
     <h2>11. Minori</h2>
     <p>Nuvo non è pensata per essere usata da bambini e non raccoglie dati da nessuno, quindi non tratta dati di minori. Se un minore usa l'app sul proprio dispositivo, i dati inseriti restano su quel dispositivo sotto il controllo di chi ne ha la responsabilità.</p>
 
     <h2>12. Modifiche a questa informativa</h2>
-    <p>Se una versione futura dell'app introdurrà funzioni che cambiano il quadro descritto qui — per esempio una sincronizzazione fra dispositivi — questa pagina verrà aggiornata prima del rilascio, con la nuova data in alto, e la novità sarà spiegata dentro l'app. Nessuna funzione che invii i tuoi dati altrove verrà attivata senza dirtelo.</p>
+    <p>Se una versione futura dell'app introdurrà funzioni che cambiano il quadro descritto qui, per esempio una sincronizzazione fra dispositivi, questa pagina verrà aggiornata prima del rilascio, con la nuova data in alto, e la novità sarà spiegata dentro l'app. Nessuna funzione che invii i tuoi dati altrove verrà attivata senza dirtelo.</p>
 
     <h2>13. Contatti</h2>
     <p>Per qualsiasi domanda su questa informativa: <a href="mailto:nuvo.app.it@gmail.com">nuvo.app.it@gmail.com</a>.</p>

diff --git a/README.md b/README.md
@@ -93,9 +93,10 @@ server: basta sostituire il contenuto di `privacy.html` con
 - `privacy.html`, punto 1: sostituire i segnaposto evidenziati con nome (o
   ragione sociale) e indirizzo del titolare del trattamento. Senza quelli
   l'informativa non regge come documento GDPR.
-- `index.html`: quando l'app esce dalla beta, sostituire «Prova la beta» e
-  «Chiedi l'invito» con i link ad App Store e Google Play, e aggiornare la
+- `index.html` e `supporto.html`: quando esce la versione Android, aggiungere
+  il link a Google Play accanto a quello dell'App Store e aggiornare la
   risposta «Su quali telefoni funziona?».
+- Testi: mai il trattino lungo «—»; al suo posto virgole, due punti o parentesi.
 - `privacy.html`: aggiornare la data in alto a ogni modifica sostanziale.
 - `supporto.html`: se cambi l'indirizzo email, va aggiornato anche qui (tre punti)
   oltre che nell'informativa.
